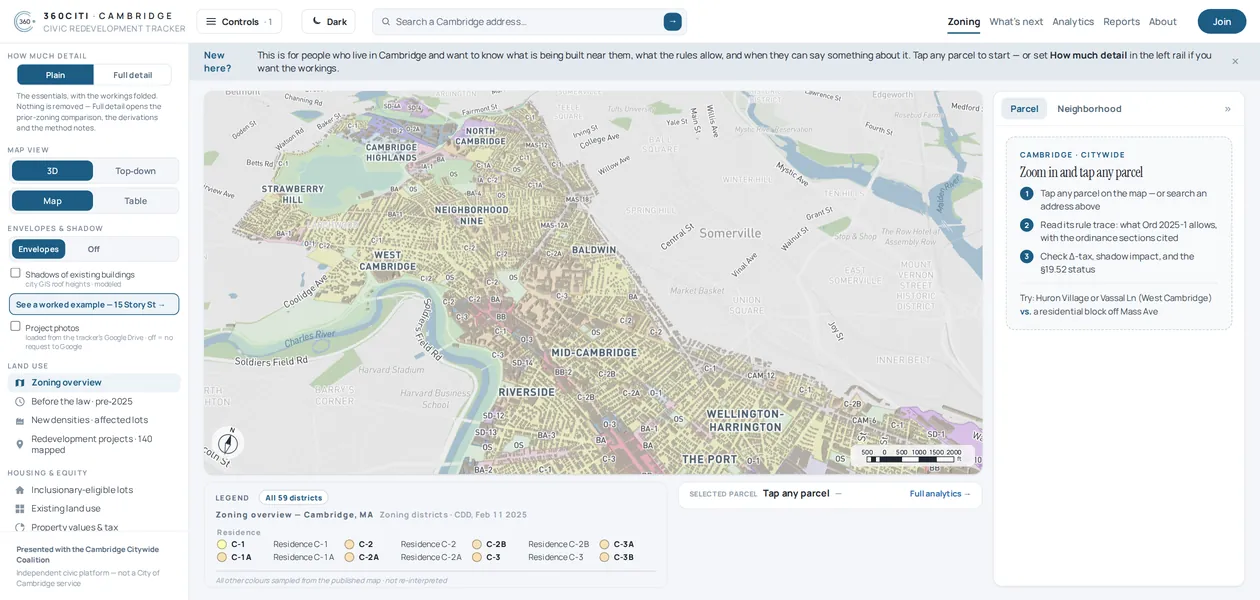
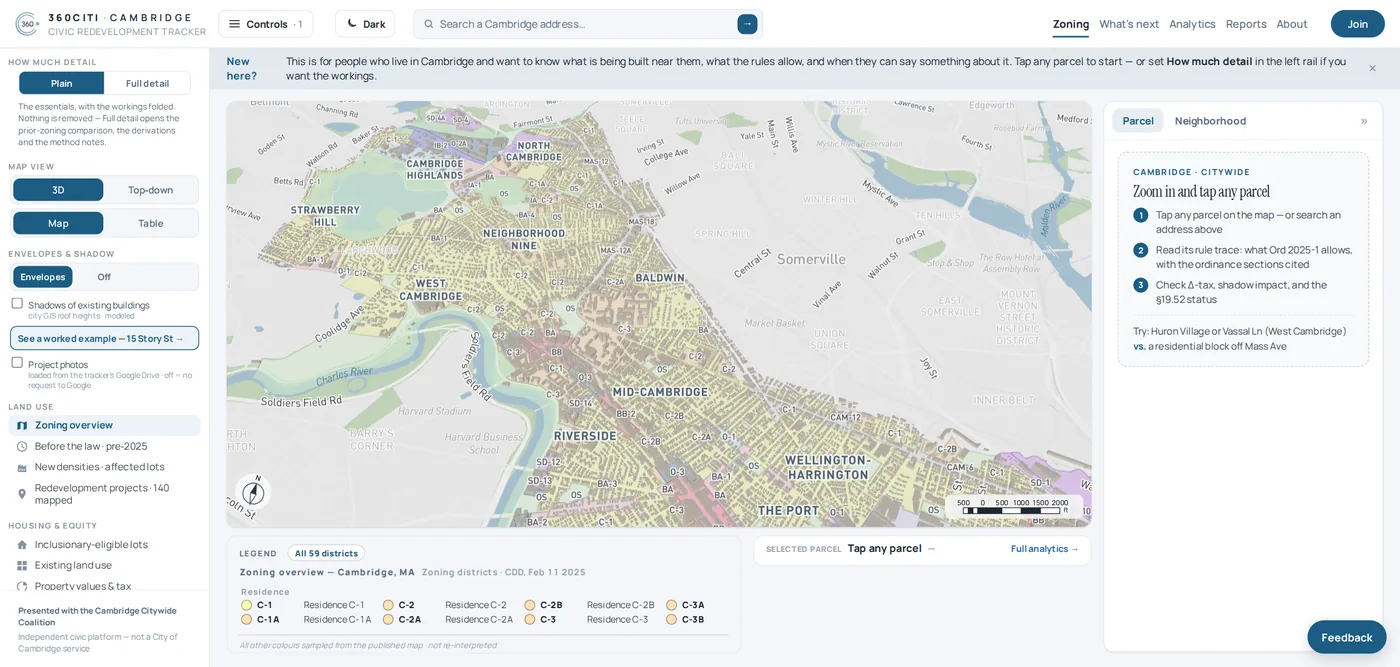
Project cards lead with a real screenshot of the running thing
Re-captured the live surfaces (polymetron-next /showcase, /copilot and home,
360citi.org, dashboard.360citi.org — all 200 as of today; /showcase is up now)
and put them at the top of each card's panel at 21:10, cropped from the top so
the nav and headline stay in frame.

Where a screenshot exists the panel reads: image, status bar marked LIVE rather
than PREVIEW, then the metrics as large figures with an accent rule, then the
flow strip. The system/tag sub-block is dropped in that case because it only
repeated the card title. Projects with no screenshot keep the synthetic panel
unchanged, so the grid stays consistent.

Metrics are now set in the display face at 1.25rem rather than hidden in a
label row — they are the strongest thing on the card and were the smallest.

Seven of the eight featured cards carry imagery; Field Voice Notes has no live
surface and keeps the generated panel.

Tags now group directly under the prose instead of being pinned to the bottom
of the column, which left a gap whenever the panel was taller than the text.

Verified desktop and 390px: 7 card images, 0 broken, no horizontal overflow,
0 console errors, 0 failed requests.

diff --git a/portfolio.jsx b/portfolio.jsx
@@ -272,64 +272,81 @@ function Research({ data }) {
 function PreviewPanel({ p, accent }) {
   const metrics = p.metrics || [];
   const flow = p.flow || [];
+  const img = p.heroImage;
   return (
     <div style={{
       background: "var(--plate)", border: "1px solid var(--line)", borderRadius: 14,
       overflow: "hidden", display: "flex", flexDirection: "column",
     }}>
       <div style={{ height: 2, background: "linear-gradient(90deg, " + accent + ", transparent)" }} />
+
+      {/* Real screenshot of the running thing where one exists. It leads, because
+          for this work the evidence is better than any diagram of it. */}
+      {img && (
+        <img src={img} alt={p.title + " screenshot"} loading="lazy"
+             style={{ width: "100%", aspectRatio: "21 / 10", objectFit: "cover", objectPosition: "top center", display: "block", borderBottom: "1px solid var(--line-2)" }} />
+      )}
+
       <div style={{
         display: "flex", alignItems: "center", justifyContent: "space-between",
-        padding: "0.6rem 0.8rem", borderBottom: "1px solid var(--line-2)",
+        padding: "0.6rem 0.8rem", borderBottom: (metrics.length || !img) ? "1px solid var(--line-2)" : "none",
       }}>
-        <span style={{ display: "inline-flex", alignItems: "center", gap: "0.45rem", fontFamily: FONT_MONO, fontSize: "0.6rem", letterSpacing: "0.1em", textTransform: "uppercase", color: "var(--ink-2)" }}>
+        <span style={{ display: "inline-flex", alignItems: "center", gap: "0.45rem", fontFamily: FONT_MONO, fontSize: "0.62rem", letterSpacing: "0.1em", textTransform: "uppercase", color: "var(--ink-2)" }}>
           <span style={{ width: 7, height: 7, borderRadius: "50%", background: accent, display: "inline-block" }} />
           {p.category}
         </span>
-        <span style={{ fontFamily: FONT_MONO, fontSize: "0.56rem", letterSpacing: "0.12em", textTransform: "uppercase", color: "var(--muted)" }}>Preview</span>
+        <span style={{ fontFamily: FONT_MONO, fontSize: "0.58rem", letterSpacing: "0.12em", textTransform: "uppercase", color: "var(--muted)" }}>
+          {img ? "Live" : "Preview"}
+        </span>
       </div>
 
-      <div style={{ display: "grid", gridTemplateColumns: metrics.length ? "1fr 1.15fr" : "1fr", gap: "0.7rem", padding: "0.8rem" }}>
-        <div>
-          <div style={{ fontFamily: FONT_MONO, fontSize: "0.54rem", letterSpacing: "0.12em", textTransform: "uppercase", color: "var(--muted)", marginBottom: "0.4rem" }}>System</div>
-          <div style={{ fontFamily: FONT_DISPLAY, fontWeight: 800, fontSize: "0.95rem", lineHeight: 1.1, textTransform: "uppercase", letterSpacing: "-0.01em", color: "var(--ink)", marginBottom: "0.7rem" }}>
-            {p.title}
-          </div>
-          <div style={{ display: "flex", flexDirection: "column", gap: "0.3rem" }}>
-            {(p.tags || []).slice(0, 4).map((t) => (
-              <div key={t} style={{ fontFamily: FONT_MONO, fontSize: "0.56rem", letterSpacing: "0.05em", textTransform: "uppercase", color: "var(--ink-2)", border: "1px solid var(--line-2)", borderRadius: 5, padding: "0.26rem 0.4rem" }}>{t}</div>
-            ))}
-          </div>
-        </div>
-
-        {metrics.length > 0 && (
-          <div>
-            {metrics.map((m) => (
-              <div key={m.label} style={{ marginBottom: "0.6rem" }}>
-                <div style={{ display: "flex", justifyContent: "space-between", gap: "0.4rem", fontFamily: FONT_MONO, fontSize: "0.54rem", letterSpacing: "0.05em", textTransform: "uppercase", color: "var(--ink-2)", marginBottom: "0.22rem" }}>
-                  <span>{m.label}</span><span style={{ color: "var(--ink)" }}>{m.value}</span>
-                </div>
-                <div style={{ height: 3, background: "var(--line-2)", borderRadius: 2 }}>
-                  <div style={{ height: 3, width: (m.pct || 100) + "%", background: accent, borderRadius: 2 }} />
-                </div>
+      {(metrics.length > 0 || !img) && (
+        <div style={{ display: "grid", gridTemplateColumns: (!img && metrics.length) ? "1fr 1.15fr" : "1fr", gap: "0.8rem", padding: "0.85rem" }}>
+          {/* The system/tag block is only needed when there is no screenshot to
+              carry the card visually; with an image it just repeats the title. */}
+          {!img && (
+            <div>
+              <div style={{ fontFamily: FONT_MONO, fontSize: "0.54rem", letterSpacing: "0.12em", textTransform: "uppercase", color: "var(--muted)", marginBottom: "0.4rem" }}>System</div>
+              <div style={{ ...DISPLAY, fontWeight: 900, fontSize: "1.05rem", lineHeight: 1.08, textTransform: "uppercase", color: "var(--ink)", marginBottom: "0.7rem" }}>{p.title}</div>
+              <div style={{ display: "flex", flexDirection: "column", gap: "0.3rem" }}>
+                {(p.tags || []).slice(0, 4).map((t) => (
+                  <div key={t} style={{ fontFamily: FONT_MONO, fontSize: "0.56rem", letterSpacing: "0.05em", textTransform: "uppercase", color: "var(--ink-2)", border: "1px solid var(--line-2)", borderRadius: 5, padding: "0.26rem 0.4rem" }}>{t}</div>
+                ))}
               </div>
-            ))}
-            {flow.length > 0 && (
-              <div>
-                <div style={{ fontFamily: FONT_MONO, fontSize: "0.54rem", letterSpacing: "0.12em", textTransform: "uppercase", color: "var(--muted)", margin: "0.7rem 0 0.4rem" }}>Flow</div>
-                <div style={{ display: "grid", gridTemplateColumns: "repeat(" + flow.length + ", 1fr)", gap: "0.35rem" }}>
-                  {flow.map((f, i) => (
-                    <div key={f} style={{ border: "1px solid var(--line-2)", borderRadius: 6, padding: "0.35rem 0.3rem", textAlign: "center" }}>
-                      <div style={{ width: 15, height: 15, borderRadius: "50%", background: accent, color: "#fff", fontFamily: FONT_MONO, fontSize: "0.5rem", display: "flex", alignItems: "center", justifyContent: "center", margin: "0 auto 0.25rem" }}>{i + 1}</div>
-                      <div style={{ fontFamily: FONT_MONO, fontSize: "0.5rem", lineHeight: 1.2, textTransform: "uppercase", color: "var(--ink-2)" }}>{f}</div>
+            </div>
+          )}
+
+          {metrics.length > 0 && (
+            <div>
+              <div style={{ display: "grid", gridTemplateColumns: img ? "repeat(" + metrics.length + ", 1fr)" : "1fr", gap: img ? "0.9rem" : "0" }}>
+                {metrics.map((m) => (
+                  <div key={m.label} style={{ marginBottom: img ? 0 : "0.6rem" }}>
+                    <div style={{ display: "flex", justifyContent: "space-between", gap: "0.4rem", fontFamily: FONT_MONO, fontSize: "0.54rem", letterSpacing: "0.05em", textTransform: "uppercase", color: "var(--ink-2)", marginBottom: "0.25rem" }}>
+                      <span>{m.label}</span>
                     </div>
-                  ))}
-                </div>
+                    <div style={{ ...DISPLAY, fontWeight: 900, fontSize: "1.25rem", lineHeight: 1, color: "var(--ink)", marginBottom: "0.3rem" }}>{m.value}</div>
+                    <div style={{ height: 2, background: accent, borderRadius: 2, opacity: 0.75 }} />
+                  </div>
+                ))}
               </div>
-            )}
-          </div>
-        )}
-      </div>
+
+              {flow.length > 0 && (
+                <div>
+                  <div style={{ fontFamily: FONT_MONO, fontSize: "0.54rem", letterSpacing: "0.12em", textTransform: "uppercase", color: "var(--muted)", margin: "0.9rem 0 0.4rem" }}>Flow</div>
+                  <div style={{ display: "grid", gridTemplateColumns: "repeat(" + flow.length + ", 1fr)", gap: "0.35rem" }}>
+                    {flow.map((f, i) => (
+                      <div key={f} style={{ border: "1px solid var(--line-2)", borderRadius: 6, padding: "0.4rem 0.3rem", textAlign: "center" }}>
+                        <div style={{ width: 16, height: 16, borderRadius: "50%", background: accent, color: "#fff", fontFamily: FONT_MONO, fontSize: "0.5rem", display: "flex", alignItems: "center", justifyContent: "center", margin: "0 auto 0.3rem" }}>{i + 1}</div>
+                        <div style={{ fontFamily: FONT_MONO, fontSize: "0.5rem", lineHeight: 1.25, textTransform: "uppercase", color: "var(--ink-2)" }}>{f}</div>
+                      </div>
+                    ))}
+                  </div>
+                </div>
+              )}
+            </div>
+          )}
+        </div>
+      )}
     </div>
   );
 }
@@ -376,7 +393,7 @@ function ProjectCard({ p, index }) {
               ))}
             </div>
           )}
-          <div style={{ display: "flex", flexWrap: "wrap", gap: "0.35rem", marginTop: "auto" }}>
+          <div style={{ display: "flex", flexWrap: "wrap", gap: "0.35rem" }}>
             {(p.tags || []).map((t) => <Chip key={t}>{t}</Chip>)}
           </div>
         </div>

diff --git a/portfolio.js b/portfolio.js
@@ -435,6 +435,7 @@ function PreviewPanel({
 }) {
   const metrics = p.metrics || [];
   const flow = p.flow || [];
+  const img = p.heroImage;
   return /*#__PURE__*/React.createElement("div", {
     style: {
       background: "var(--plate)",
@@ -449,13 +450,25 @@ function PreviewPanel({
       height: 2,
       background: "linear-gradient(90deg, " + accent + ", transparent)"
     }
+  }), img && /*#__PURE__*/React.createElement("img", {
+    src: img,
+    alt: p.title + " screenshot",
+    loading: "lazy",
+    style: {
+      width: "100%",
+      aspectRatio: "21 / 10",
+      objectFit: "cover",
+      objectPosition: "top center",
+      display: "block",
+      borderBottom: "1px solid var(--line-2)"
+    }
   }), /*#__PURE__*/React.createElement("div", {
     style: {
       display: "flex",
       alignItems: "center",
       justifyContent: "space-between",
       padding: "0.6rem 0.8rem",
-      borderBottom: "1px solid var(--line-2)"
+      borderBottom: metrics.length || !img ? "1px solid var(--line-2)" : "none"
     }
   }, /*#__PURE__*/React.createElement("span", {
     style: {
@@ -463,7 +476,7 @@ function PreviewPanel({
       alignItems: "center",
       gap: "0.45rem",
       fontFamily: FONT_MONO,
-      fontSize: "0.6rem",
+      fontSize: "0.62rem",
       letterSpacing: "0.1em",
       textTransform: "uppercase",
       color: "var(--ink-2)"
@@ -479,19 +492,19 @@ function PreviewPanel({
   }), p.category), /*#__PURE__*/React.createElement("span", {
     style: {
       fontFamily: FONT_MONO,
-      fontSize: "0.56rem",
+      fontSize: "0.58rem",
       letterSpacing: "0.12em",
       textTransform: "uppercase",
       color: "var(--muted)"
     }
-  }, "Preview")), /*#__PURE__*/React.createElement("div", {
+  }, img ? "Live" : "Preview")), (metrics.length > 0 || !img) && /*#__PURE__*/React.createElement("div", {
     style: {
       display: "grid",
-      gridTemplateColumns: metrics.length ? "1fr 1.15fr" : "1fr",
-      gap: "0.7rem",
-      padding: "0.8rem"
+      gridTemplateColumns: !img && metrics.length ? "1fr 1.15fr" : "1fr",
+      gap: "0.8rem",
+      padding: "0.85rem"
     }
-  }, /*#__PURE__*/React.createElement("div", null, /*#__PURE__*/React.createElement("div", {
+  }, !img && /*#__PURE__*/React.createElement("div", null, /*#__PURE__*/React.createElement("div", {
     style: {
       fontFamily: FONT_MONO,
       fontSize: "0.54rem",
@@ -502,12 +515,11 @@ function PreviewPanel({
     }
   }, "System"), /*#__PURE__*/React.createElement("div", {
     style: {
-      fontFamily: FONT_DISPLAY,
-      fontWeight: 800,
-      fontSize: "0.95rem",
-      lineHeight: 1.1,
+      ...DISPLAY,
+      fontWeight: 900,
+      fontSize: "1.05rem",
+      lineHeight: 1.08,
       textTransform: "uppercase",
-      letterSpacing: "-0.01em",
       color: "var(--ink)",
       marginBottom: "0.7rem"
     }
@@ -529,10 +541,16 @@ function PreviewPanel({
       borderRadius: 5,
       padding: "0.26rem 0.4rem"
     }
-  }, t)))), metrics.length > 0 && /*#__PURE__*/React.createElement("div", null, metrics.map(m => /*#__PURE__*/React.createElement("div", {
+  }, t)))), metrics.length > 0 && /*#__PURE__*/React.createElement("div", null, /*#__PURE__*/React.createElement("div", {
+    style: {
+      display: "grid",
+      gridTemplateColumns: img ? "repeat(" + metrics.length + ", 1fr)" : "1fr",
+      gap: img ? "0.9rem" : "0"
+    }
+  }, metrics.map(m => /*#__PURE__*/React.createElement("div", {
     key: m.label,
     style: {
-      marginBottom: "0.6rem"
+      marginBottom: img ? 0 : "0.6rem"
     }
   }, /*#__PURE__*/React.createElement("div", {
     style: {
@@ -544,24 +562,23 @@ function PreviewPanel({
       letterSpacing: "0.05em",
       textTransform: "uppercase",
       color: "var(--ink-2)",
-      marginBottom: "0.22rem"
+      marginBottom: "0.25rem"
     }
-  }, /*#__PURE__*/React.createElement("span", null, m.label), /*#__PURE__*/React.createElement("span", {
+  }, /*#__PURE__*/React.createElement("span", null, m.label)), /*#__PURE__*/React.createElement("div", {
     style: {
-      color: "var(--ink)"
+      ...DISPLAY,
+      fontWeight: 900,
+      fontSize: "1.25rem",
+      lineHeight: 1,
+      color: "var(--ink)",
+      marginBottom: "0.3rem"
     }
-  }, m.value)), /*#__PURE__*/React.createElement("div", {
+  }, m.value), /*#__PURE__*/React.createElement("div", {
     style: {
-      height: 3,
-      background: "var(--line-2)",
-      borderRadius: 2
-    }
-  }, /*#__PURE__*/React.createElement("div", {
-    style: {
-      height: 3,
-      width: (m.pct || 100) + "%",
+      height: 2,
       background: accent,
-      borderRadius: 2
+      borderRadius: 2,
+      opacity: 0.75
     }
   })))), flow.length > 0 && /*#__PURE__*/React.createElement("div", null, /*#__PURE__*/React.createElement("div", {
     style: {
@@ -570,7 +587,7 @@ function PreviewPanel({
       letterSpacing: "0.12em",
       textTransform: "uppercase",
       color: "var(--muted)",
-      margin: "0.7rem 0 0.4rem"
+      margin: "0.9rem 0 0.4rem"
     }
   }, "Flow"), /*#__PURE__*/React.createElement("div", {
     style: {
@@ -583,13 +600,13 @@ function PreviewPanel({
     style: {
       border: "1px solid var(--line-2)",
       borderRadius: 6,
-      padding: "0.35rem 0.3rem",
+      padding: "0.4rem 0.3rem",
       textAlign: "center"
     }
   }, /*#__PURE__*/React.createElement("div", {
     style: {
-      width: 15,
-      height: 15,
+      width: 16,
+      height: 16,
       borderRadius: "50%",
       background: accent,
       color: "#fff",
@@ -598,13 +615,13 @@ function PreviewPanel({
       display: "flex",
       alignItems: "center",
       justifyContent: "center",
-      margin: "0 auto 0.25rem"
+      margin: "0 auto 0.3rem"
     }
   }, i + 1), /*#__PURE__*/React.createElement("div", {
     style: {
       fontFamily: FONT_MONO,
       fontSize: "0.5rem",
-      lineHeight: 1.2,
+      lineHeight: 1.25,
       textTransform: "uppercase",
       color: "var(--ink-2)"
     }
@@ -714,8 +731,7 @@ function ProjectCard({
     style: {
       display: "flex",
       flexWrap: "wrap",
-      gap: "0.35rem",
-      marginTop: "auto"
+      gap: "0.35rem"
     }
   }, (p.tags || []).map(t => /*#__PURE__*/React.createElement(Chip, {
     key: t
